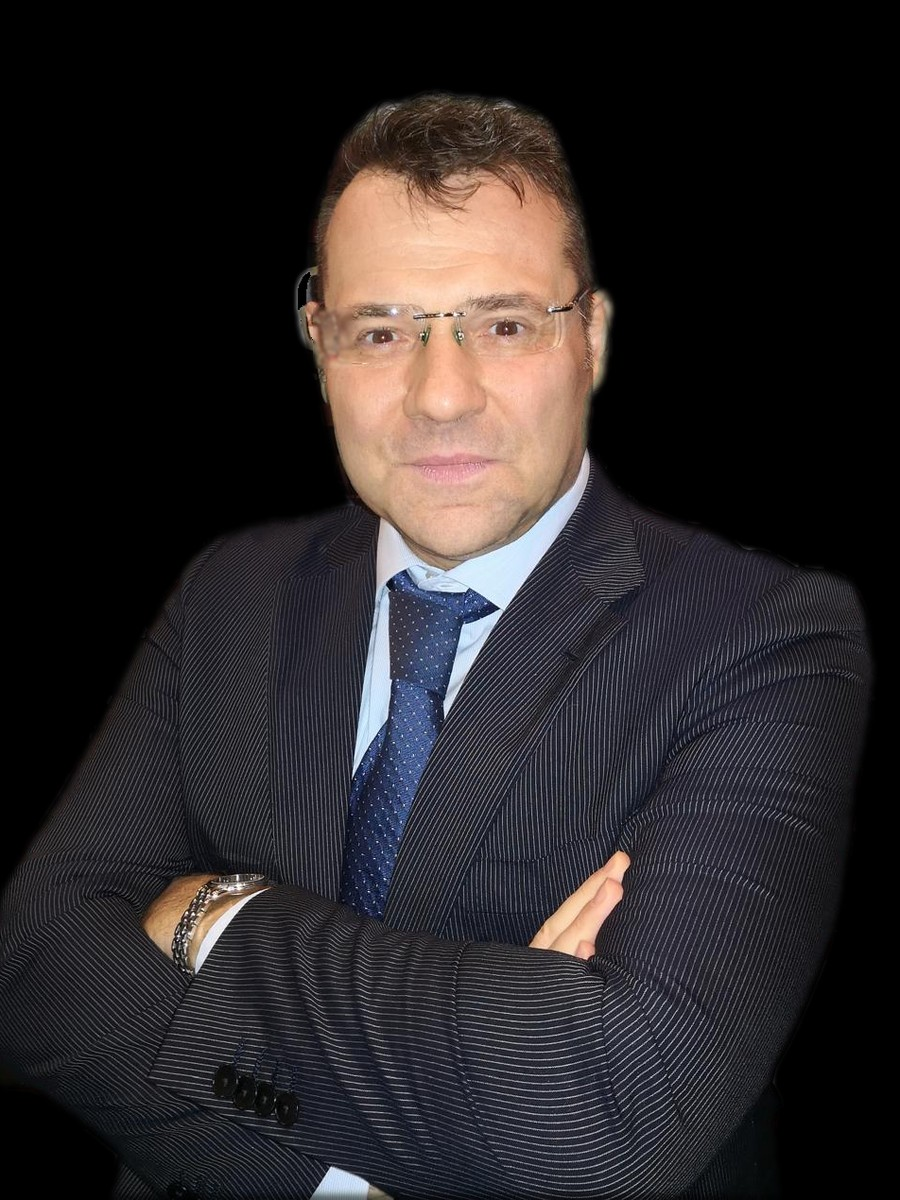
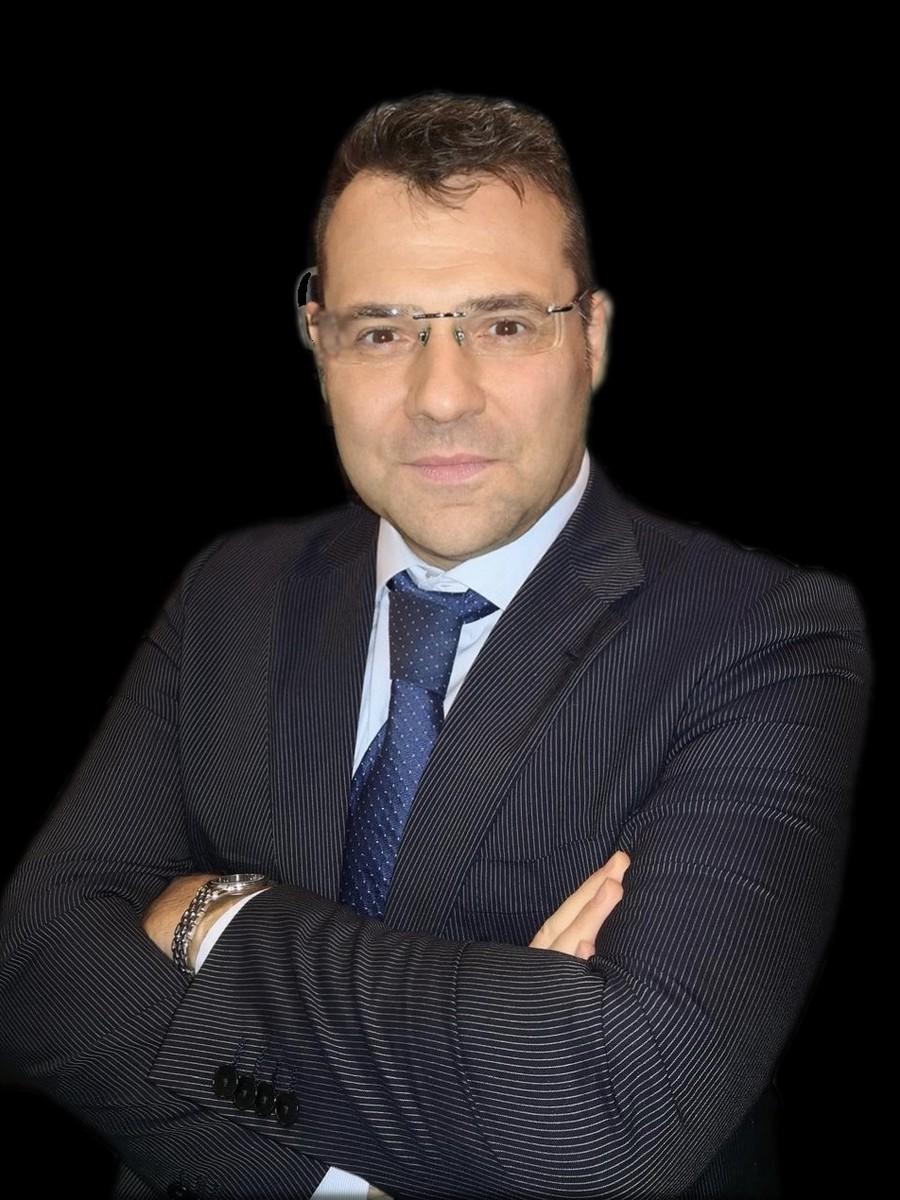
team: use Antonio Franchino's retouched photo

diff --git a/antonio-franchino.html b/antonio-franchino.html
@@ -98,7 +98,7 @@
       <a href="index.html#team" class="bio-back-link" style="grid-column: 1 / -1; margin-bottom: -40px;" data-en-html='<span aria-hidden="true">&larr;</span> Back to Team' data-it-html='<span aria-hidden="true">&larr;</span> Torna al Team'><span aria-hidden="true">&larr;</span> Back to Team</a>
       <div class="bio-photo">
         <div class="bio-photo__frame">
-          <img src="antonio-franchino.jpg" alt="Antonio Franchino" class="bio-photo__img">
+          <img src="antonio-franchino.jpg?v=2" alt="Antonio Franchino" class="bio-photo__img">
         </div>
         <div class="bio-photo__accent"></div>
         <div class="bio-photo__accent-2"></div>

diff --git a/index.html b/index.html
@@ -490,7 +490,7 @@
         </div>
         <div class="team-card">
           <a href="antonio-franchino.html">
-            <div class="team-card__photo"><img src="antonio-franchino.jpg" alt="Antonio Franchino" loading="lazy"></div>
+            <div class="team-card__photo"><img src="antonio-franchino.jpg?v=2" alt="Antonio Franchino" loading="lazy"></div>
             <h3 class="team-card__name">Antonio Franchino</h3>
             <p class="team-card__role" data-en="Director, Run Asset Management" data-it="Director, Run Asset Management">Director, Run Asset Management</p>
           </a>

diff --git a/run-am.html b/run-am.html
@@ -331,7 +331,7 @@
         </div>
         <div class="team-card">
           <a href="antonio-franchino.html">
-            <div class="team-card__photo"><img src="antonio-franchino.jpg" alt="Antonio Franchino" loading="lazy"></div>
+            <div class="team-card__photo"><img src="antonio-franchino.jpg?v=2" alt="Antonio Franchino" loading="lazy"></div>
             <h3 class="team-card__name">Antonio Franchino</h3>
             <p class="team-card__role" data-en="Director, Run Asset Management" data-it="Director, Run Asset Management">Director, Run Asset Management</p>
           </a>

diff --git a/asset-management.html b/asset-management.html
@@ -845,7 +845,7 @@
       </div>
       <div class="team-card">
         <a href="antonio-franchino.html">
-          <div class="team-card__photo"><img src="antonio-franchino.jpg" alt="Antonio Franchino" loading="lazy"></div>
+          <div class="team-card__photo"><img src="antonio-franchino.jpg?v=2" alt="Antonio Franchino" loading="lazy"></div>
           <h3 class="team-card__name">Antonio Franchino</h3>
           <p class="team-card__role" data-en="Director, Run Asset Management" data-it="Director, Run Asset Management">Director, Run Asset Management</p>
         </a>
